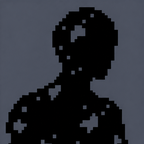
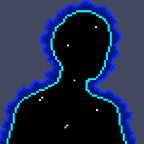
Update specter with levitating blue-aura sprite and matching portrait

diff --git a/data/creatures/specter.js b/data/creatures/specter.js
@@ -11,7 +11,7 @@ window.CREATURE_TEMPLATES['specter'] = {
     portrait: 'assets/homm2/portrait-specter.png',
     sourceSize: { width: 60, height: 72 },
     displaySize: { width: 72, height: 86 },
-    padding: { top: 4, right: 17, bottom: 4, left: 16 },
+    padding: { top: 4, right: 15, bottom: 4, left: 14 },
     svg: `<path d="M16 14 Q10 8 16 4 Q23 1 25 8 L23 14 L29 20 L34 29 L30 31 L25 24 L25 30 L30 38 H23 L20 31 L17 38 H10 L15 28 L14 22 L9 31 L5 29 L10 19 Z M17 8 H20 V10 H17 Z M18 18 H21 V21 H18 Z M21 25 H23 V28 H21 Z" fill="#000" fill-rule="evenodd"/>`
   },
   // Собственных умений пока нет; заклинания монаха не наследуются.
